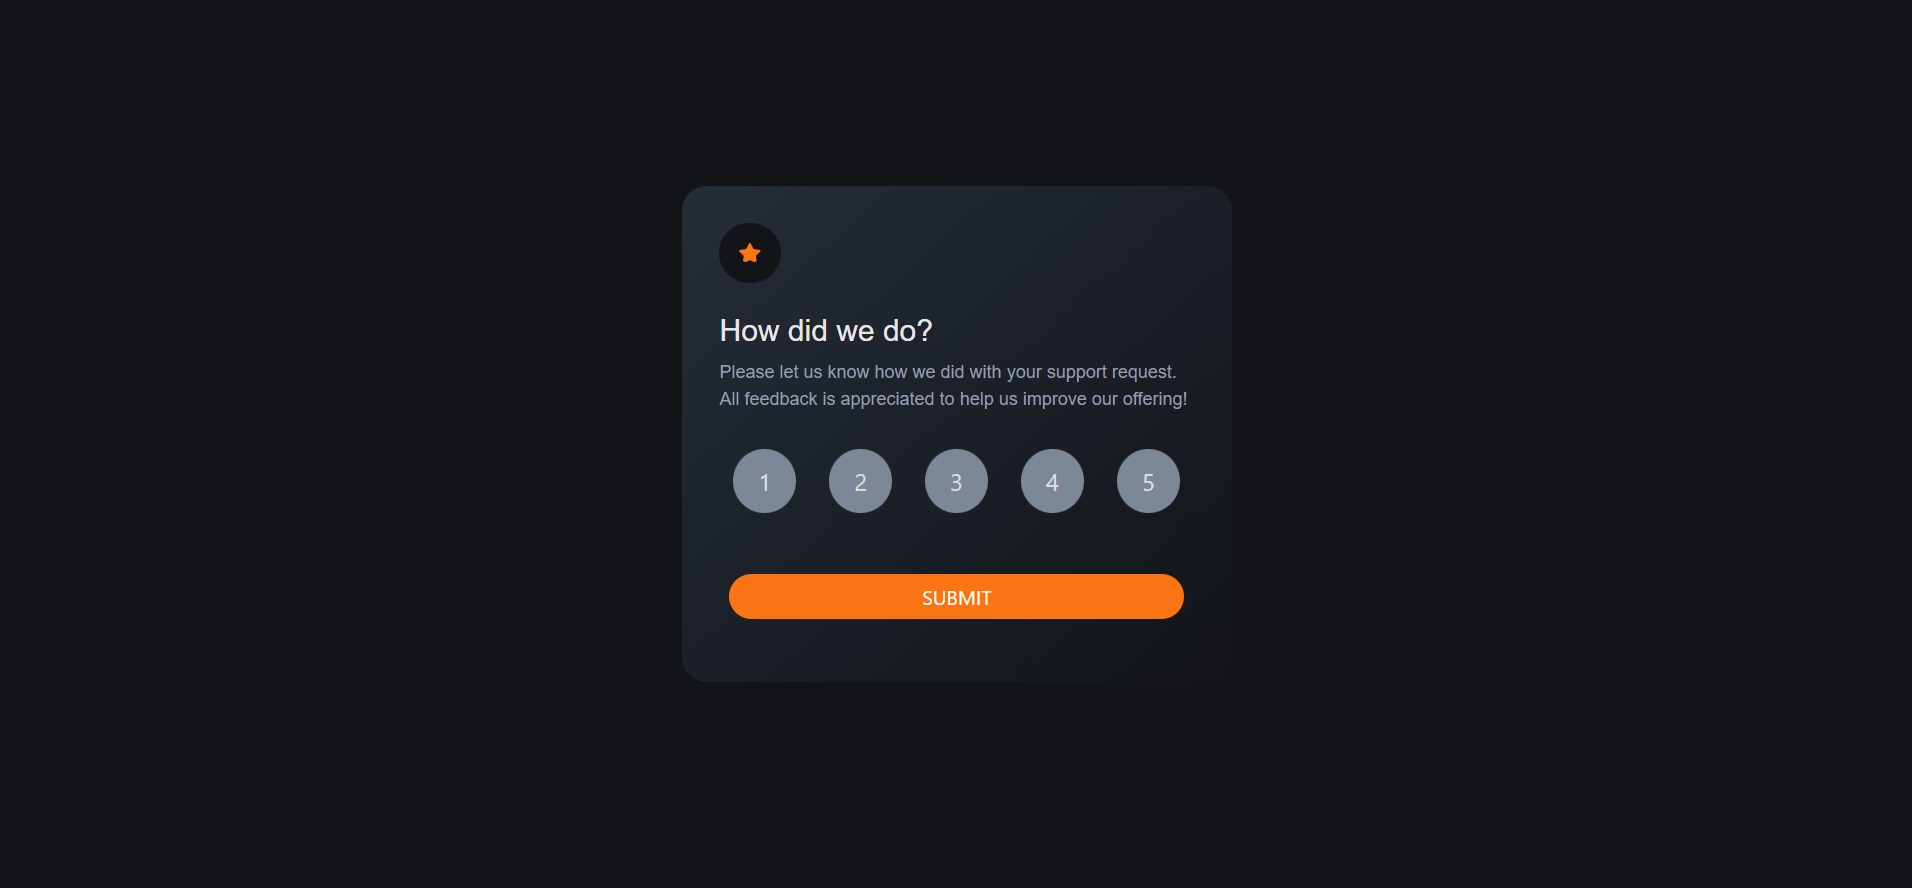
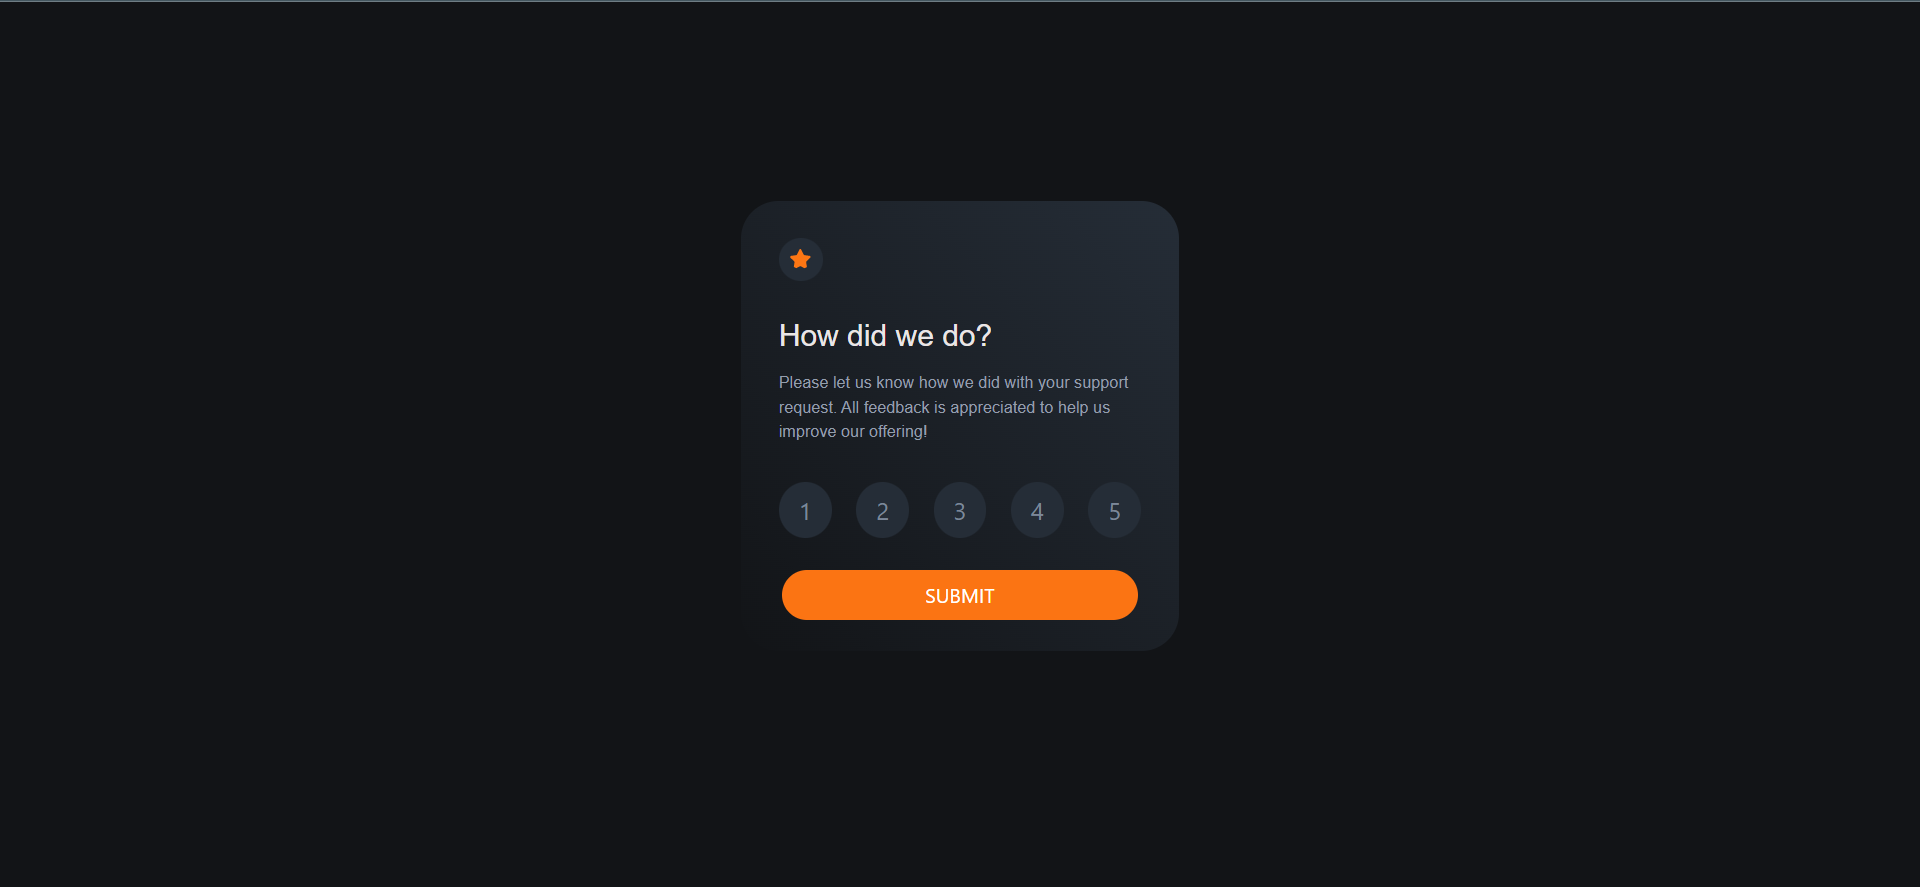
update image and Readme

Changed region(s): [[0.3394, 0.1826, 0.6172, 0.5784], [0.3703, 0.6392, 0.6172, 0.7001]]

diff --git a/Readme.md b/Readme.md
@@ -1,4 +1,5 @@
 ## Preview
 
-
 ![preview](./img.png)
+
+#### Link : https://shivamsanju.github.io/review-screen/
